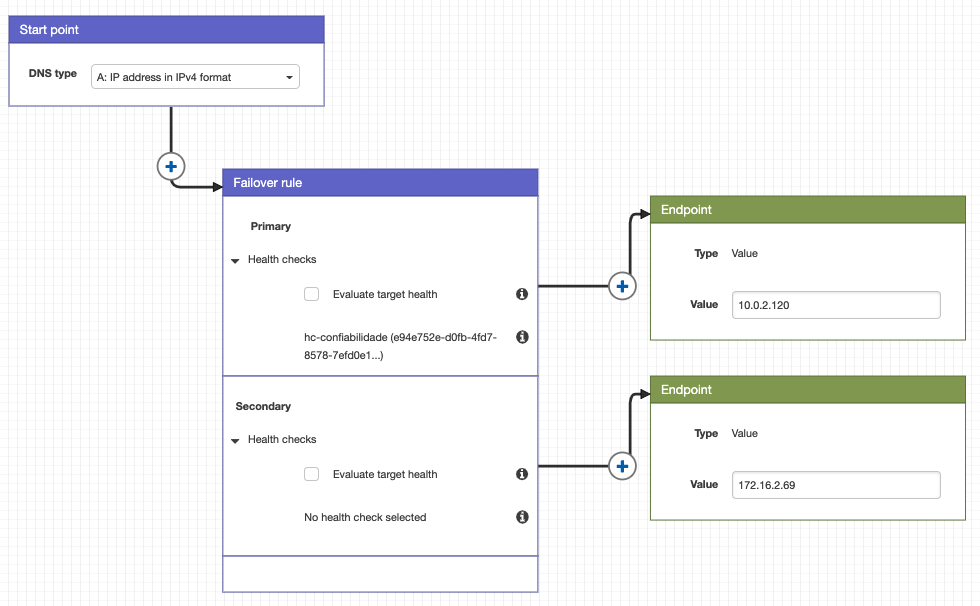
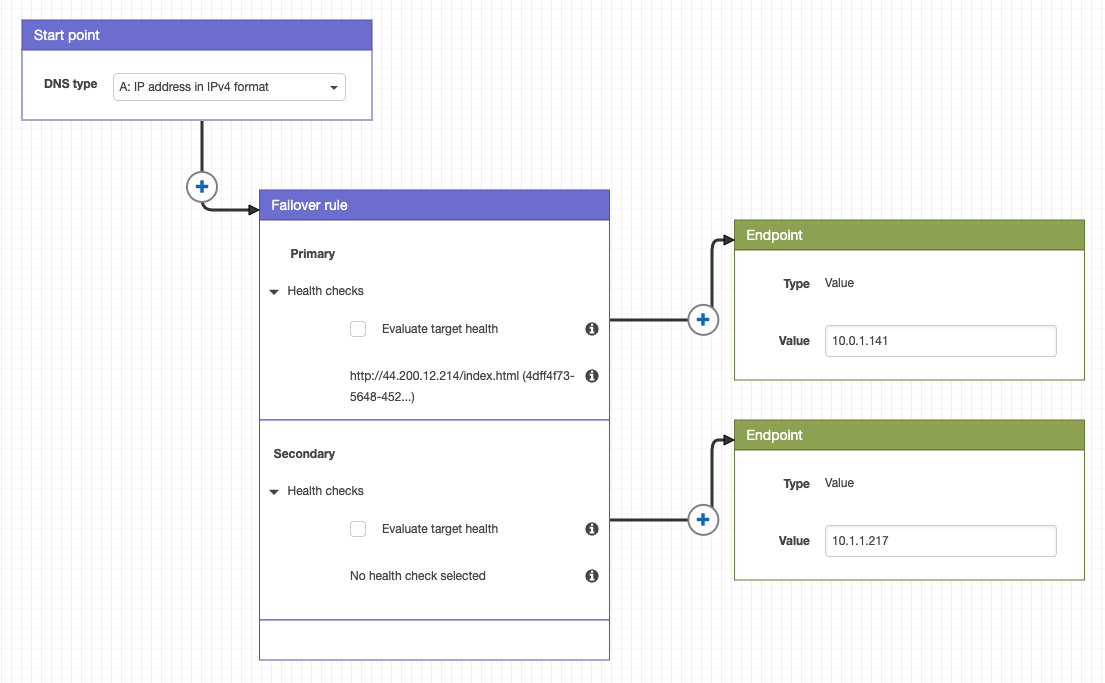
Fix some steps on Route53 Private Hosted Zone lab

diff --git a/workshop/content/labs/basics/route53/cloudshell.en.md b/workshop/content/labs/basics/route53/cloudshell.en.md
@@ -8,7 +8,7 @@ hidden: true
 
 #### Go to AWS CloudShell
 
-1.  Go to AWS CloudShell, in the top bar of the AWS Console, click the button on the right side of the search bar.
+1.  Go to AWS CloudShell, in the top bar of the AWS Console, click the button on the right side of the search bar in **N. Virginia**.
     ![CloudShell](/images/console-cloudshell2.png)
 
 #### Create resources across multiple regions
@@ -67,12 +67,34 @@ hidden: true
 1. Get the VPC ID of the VPC's created on previous step.
 
     ```bash
-    export VPC_ID_PRIMARY=$(aws cloudformation describe-stacks --stack-name route53lab --region us-east-1 | jq -r .Stacks[0].Outputs[0].OutputValue)
+    # Get VPC ID's
+    export VPC_ID_PRIMARY=$(aws cloudformation describe-stacks \
+      --stack-name route53lab \
+      --region us-east-1 | jq -r .Stacks[0].Outputs[0].OutputValue)
 
-    export VPC_ID_SECONDARY=$(aws cloudformation describe-stacks --stack-name route53lab --region us-west-1 | jq -r .Stacks[0].Outputs[0].OutputValue)
+    export VPC_ID_SECONDARY=$(aws cloudformation describe-stacks \
+      --stack-name route53lab \
+      --region us-west-1 | jq -r .Stacks[0].Outputs[0].OutputValue)
 
     echo PRIMARY VPC = $VPC_ID_PRIMARY
     echo SECONDARY VPC = $VPC_ID_SECONDARY
+
+    # Get Custom Route Table ID's
+    export ROUTE_TABLE_PRIMARY=$(aws ec2 describe-route-tables \
+      --filters \
+      "Name=vpc-id,Values=$VPC_ID_PRIMARY" \
+      "Name=association.main,Values=false" \
+      --query 'RouteTables[*].RouteTableId' \
+      --output text \
+      --region us-east-1)
+
+    export ROUTE_TABLE_SECONDARY=$(aws ec2 describe-route-tables \
+      --filters \
+      "Name=vpc-id,Values=$VPC_ID_SECONDARY" \
+      "Name=association.main,Values=false" \
+      --query 'RouteTables[*].RouteTableId' \
+      --output text \
+      --region us-west-1)  
     
     ```
 
@@ -92,11 +114,24 @@ hidden: true
     aws ec2 accept-vpc-peering-connection \
       --vpc-peering-connection-id $PEERING_ID \
       --region us-west-1
+
+    # Add routes to VPC Peering
+    aws ec2 create-route \
+      --route-table-id $ROUTE_TABLE_PRIMARY \
+      --destination-cidr-block 10.1.0.0/16 \
+      --vpc-peering-connection-id $PEERING_ID \
+      --region us-east-1
+
+    aws ec2 create-route \
+      --route-table-id $ROUTE_TABLE_SECONDARY \
+      --destination-cidr-block 10.0.0.0/16 \
+      --vpc-peering-connection-id $PEERING_ID \
+      --region us-west-1    
     ```
 
 #### Create private DNS entries
 
-1. Create a Route53 - Private Hosted Zone for the anycompany.internal DNS entries by associating the PRIMARY VPC in **us-east-1**.
+1. Create a Route 53 - Private Hosted Zone for the anycompany.internal DNS entries by associating the PRIMARY VPC in **us-east-1**.
 
     ```bash
     export HOSTED_ZONE_ID=$(aws route53 create-hosted-zone --name anycompany.internal \
@@ -114,12 +149,12 @@ hidden: true
       --vpc VPCRegion=us-west-1,VPCId=$VPC_ID_SECONDARY
     ```
 
-#### Create Route53 Failover Policy
+#### Create Route 53 Health Check
 
-1. Get the private IP of both Web Servers.
+1. Get the **public** IP of both Web Servers. This is because Route 53 health checkers are public and they can only monitor hosts with IP addresses that are publicly routable on the internet.
 
     ```bash
-    export WEBSERVER_PRIMARY_IP=$(aws ec2 describe-instances \
+    export WEBSERVER_PRIMARY_PUBLIC_IP=$(aws ec2 describe-instances \
       --region us-east-1 \
       --filters \
       "Name=instance-state-name,Values=running" \
@@ -127,7 +162,7 @@ hidden: true
       --query 'Reservations[*].Instances[*].[PublicIpAddress]' \
       --output text)
 
-    export WEBSERVER_SECONDARY_IP=$(aws ec2 describe-instances \
+    export WEBSERVER_SECONDARY_PUBLIC_IP=$(aws ec2 describe-instances \
       --region us-west-1 \
       --filters \
       "Name=instance-state-name,Values=running" \
@@ -135,11 +170,12 @@ hidden: true
       --query 'Reservations[*].Instances[*].[PublicIpAddress]' \
       --output text)      
 
-    echo PRIMARY WEB SERVER = $WEBSERVER_PRIMARY_IP
-    echo SECONDARY WEB SERVER = $WEBSERVER_SECONDARY_IP  
+    echo PRIMARY WEB SERVER = $WEBSERVER_PRIMARY_PUBLIC_IP
+    echo SECONDARY WEB SERVER = $WEBSERVER_SECONDARY_PUBLIC_IP  
     ```
 
-2. Let's create the health check for our primary endpoint that will be in **us-east-1**
+2. Create the health check policy and save in a file
+
     ```bash
     # Health check policy
     cat > health-check-config.json << EOF
@@ -147,24 +183,55 @@ hidden: true
       "Type": "HTTP",
       "Port": 80,
       "ResourcePath": "/index.html",
-      "IPAddress": "$WEBSERVER_PRIMARY_IP",
+      "IPAddress": "$WEBSERVER_PRIMARY_PUBLIC_IP",
       "RequestInterval": 30,
       "FailureThreshold": 3
     } 
     EOF
     ```
 
+3. Let's create the health check for our primary endpoint that is in **us-east-1**
+
     ```bash
-    # Create Healthcheck for Route53
+    # Create Health check for Route 53
     export HEALTH_ID=$(aws route53 create-health-check \
       --caller-reference $(date "+%Y%m%d%H%M%S") \
       --health-check-config file://health-check-config.json |\
       jq -r ".HealthCheck.Id")
     ```
     
-    *The healthcheck will be active in 30 seconds.*
+   {{% notice note %}}
+   *The health check will be active in 30 seconds.*
+   {{% /notice %}}
+    
 
-3. Creating our primary endpoint using Failover routing policy.
+#### Create Route 53 Failover Policy  
+
+
+1. Get the **private** IP of both Web Servers.
+
+    ```bash
+    export WEBSERVER_PRIMARY_PRIVATE_IP=$(aws ec2 describe-instances \
+      --region us-east-1 \
+      --filters \
+      "Name=instance-state-name,Values=running" \
+      "Name=tag-value,Values=WebServerInstance" \
+      --query 'Reservations[*].Instances[*].[PrivateIpAddress]' \
+      --output text)
+
+    export WEBSERVER_SECONDARY_PRIVATE_IP=$(aws ec2 describe-instances \
+      --region us-west-1 \
+      --filters \
+      "Name=instance-state-name,Values=running" \
+      "Name=tag-value,Values=WebServerInstance" \
+      --query 'Reservations[*].Instances[*].[PrivateIpAddress]' \
+      --output text)      
+
+    echo PRIMARY WEB SERVER = $WEBSERVER_PRIMARY_PRIVATE_IP
+    echo SECONDARY WEB SERVER = $WEBSERVER_SECONDARY_PRIVATE_IP  
+    ```
+
+2. Create the Failover routing policy and save in a file
 
     ```bash
     # Failover policy
@@ -176,11 +243,11 @@ hidden: true
         "Endpoints":{
             "WEBSERVER_PRIMARY":{
                 "Type":"value",
-                "Value":"$WEBSERVER_PRIMARY_IP"
+                "Value":"$WEBSERVER_PRIMARY_PRIVATE_IP"
             },
             "WEBSERVER_SECONDARY":{
                 "Type":"value",
-                "Value":"$WEBSERVER_SECONDARY_IP"
+                "Value":"$WEBSERVER_SECONDARY_PRIVATE_IP"
             }
         },
         "Rules":{
@@ -199,6 +266,11 @@ hidden: true
     EOF
     ```
 
+   {{% notice note %}}
+   *It's being used Private IP to keep the communication through VPC Peering.*
+   {{% /notice %}}
+
+3. Associate the traffic policy to Route53 Private Hosted Zone
     ```bash
     # Create traffic policy
     export TRAFFIC_ID=$(aws route53 create-traffic-policy --name failover-policy \
@@ -222,7 +294,8 @@ hidden: true
     ![Cloudshell](/images/cloudshell-split-columns.png)
 
 
-    Using the second terminal, execute:
+2. Using the second terminal, execute:
+
     ```bash
     # GET EC2 IP in N. Virginia
     export EC2_CLIENT_IP=$(aws ec2 describe-instances \
@@ -235,12 +308,12 @@ hidden: true
     
     # Access EC2 instance by SSH
     chmod 400 us-east-1-keypair.pem
-    ssh -i us-east-1.pem ec2-user@$EC2_CLIENT_IP   
+    ssh -i us-east-1-keypair.pem ec2-user@$EC2_CLIENT_IP   
     ```
 
     *Answer 'yes' to add this EC2 instance to "Known hosts" file.
 
-2. Try to access the website using "service.anycompany.internal"
+3. Try to access the website using "service.anycompany.internal"
 
     ```bash
     # Check the DNS answer
@@ -250,7 +323,12 @@ hidden: true
     curl service.anycompany.internal
     ```
 
-3. Using the first terminal, remove the inbound rule to primary Web Server
+    It's expected a response in HTML from **PRIMARY WEB SERVER** like below:
+    ```html
+    <html><h1>Welcome to Example Portal !! </h1><h2>Hosted in us-east-1</h2</html>
+    ```
+
+4. Now let's provoke an error! Using the first terminal, remove the inbound rule from Security Group of Primary Web Server
 
     ```bash
     # Get security group id of Web Server Primary
@@ -264,13 +342,16 @@ hidden: true
 
     # Revoke the inbound rule for **port 80**
     aws ec2 revoke-security-group-ingress \
-      --group_id $SG_ID_PRIMARY \
+      --group-id $SG_ID_PRIMARY \
       --ip-permissions FromPort=80,IpProtocol=tcp,ToPort=80,IpRanges=[{CidrIp=0.0.0.0/0}]
     ```
 
-4. On second terminal, try to access the website again
+   {{% notice info %}}
+   *After 1 minute, the Health Check will mark the **PRIMARY WEB SERVER** as **UNHEALTHY** and will trigger the failover mechanism.*
+   {{% /notice %}}
 
-   After 1 minute the DNS will answer the Secondary Web Server IP.
+
+5. On second terminal, try to access the website again
 
     ```bash
     # Check the DNS answer
@@ -279,24 +360,34 @@ hidden: true
     # Access the Web Server
     curl service.anycompany.internal
     ```
+    
+    Now the Failover Policy on Route 53 will answer the **SECONDARY WEB SERVER** ip address, so it's expected a response in HTML from **SECONDARY WEB SERVER** like below:
+
+    ```html
+    <html><h1>Welcome to Example Portal !! </h1><h2>Hosted in us-west-1</h2</html>
+    ```
 
 #### Cleaning up
 
-Delete all the resources    
+1. Delete all the resources created during the lab.    
 
-```bash
-# Delete VPC Peering Connection
-aws ec2 delete-vpc-peering-connection --vpc-peering-connection-id $PEERING_ID
+    ```bash
+    # Delete VPC Peering Connection
+    aws ec2 delete-vpc-peering-connection --vpc-peering-connection-id $PEERING_ID
 
-# Delete Cloudformation Stack
-aws cloudformation delete-stack --stack-name route53lab --region us-east-1
-aws cloudformation delete-stack --stack-name route53lab --region us-west-1
+    # Delete Cloudformation Stack
+    aws cloudformation delete-stack --stack-name route53lab --region us-east-1
+    aws cloudformation delete-stack --stack-name route53lab --region us-west-1
 
-# Wait for conclusion
-aws cloudformation wait stack-delete-complete --stack-name route53lab --region us-east-1
-aws cloudformation wait stack-delete-complete --stack-name route53lab --region us-west-1
+    # Wait for Cloudformation stacks conclusion
+    aws cloudformation wait stack-delete-complete --stack-name route53lab --region us-east-1
+    aws cloudformation wait stack-delete-complete --stack-name route53lab --region us-west-1
 
-# Delete KeyPair
-aws ec2 delete-key-pair --key-name us-east-1-keypair --region us-east-1
-aws ec2 delete-key-pair --key-name us-west-1-keypair --region us-west-1
-```
+    # Delete KeyPairs
+    aws ec2 delete-key-pair --key-name us-east-1-keypair --region us-east-1
+    aws ec2 delete-key-pair --key-name us-west-1-keypair --region us-west-1
+
+    # Delete files
+    rm -f us-east-1-keypair.pem us-west-1-keypair.pem health-check-config.json failover-policy.json
+    ```
+

diff --git a/workshop/content/labs/basics/route53/_index.en.md b/workshop/content/labs/basics/route53/_index.en.md
@@ -7,7 +7,7 @@ pre: "<b></b>"
 tags: [Warm-Standby]
 type: Lab
 awsServices:
- - Amazon Route53
+ - Amazon Route 53
 ---
 
 ### Objective
@@ -21,8 +21,9 @@ This exercise will show you the steps for you to quickly configure DNS-based fai
 
 **By the end of this exercise, you will be able to:**
 
-*   Configure a failover policy on Amazon Route 53 to enable DNS entry to switch for resources in different regions.
-*   Architect a failover mechanism for private resources in your VPC.
+* Configure a health check on Amo  
+* Configure a failover policy on Amazon Route 53 to enable DNS entry to switch for resources in different regions.
+* Architect a failover mechanism for private resources in your VPC.
 
 **Estimated Duration:** 40 minutes
 
@@ -39,7 +40,7 @@ This exercise will show you the steps for you to quickly configure DNS-based fai
 
 ### Conclusion
 
-With this exercise, it was possible to understand how to configure DNS entries on Route 53 to do dynamic routing between resources in different regions.
+With this exercise, it was possible to understand how to configure DNS entries on Amazon Route 53 to do dynamic routing between resources in different AWS regions.
 For more complex contexts involving on-premises and multi-account environment, the following reference presents a sample architecture that can be applied.
 
 - [Multi region DNS support](https://aws.amazon.com/blogs/architecture/using-route-53-private-hosted-zones-for-cross-account-multi-region-architectures/)

diff --git a/workshop/content/labs/basics/route53/cloudshell.pt.md b/workshop/content/labs/basics/route53/cloudshell.pt.md
@@ -53,7 +53,7 @@ hidden: true
 
     ```
 
-4. Criar um health check baseado em alarme do CloudWatch para o Route53 identificar se o endpoint está saudável. Executar o seguinte template de CloudFormation com o nome de stack hc-confiabilidade e seguintes valores:
+4. Criar um health check baseado em alarme do CloudWatch para o Route 53 identificar se o endpoint está saudável. Executar o seguinte template de CloudFormation com o nome de stack hc-confiabilidade e seguintes valores:
  
  - Protocol: HTTP
  - IP Address: IP privado da instância primária do ambiente provisionado anteriormente

diff --git a/workshop/content/labs/basics/route53/_index.pt.md b/workshop/content/labs/basics/route53/_index.pt.md
@@ -7,7 +7,7 @@ pre: "<b></b>"
 tags: [Active-Active]
 type: Lab
 awsServices:
- - Amazon Route53
+ - Amazon Route 53
 draft: true
 ---
 
